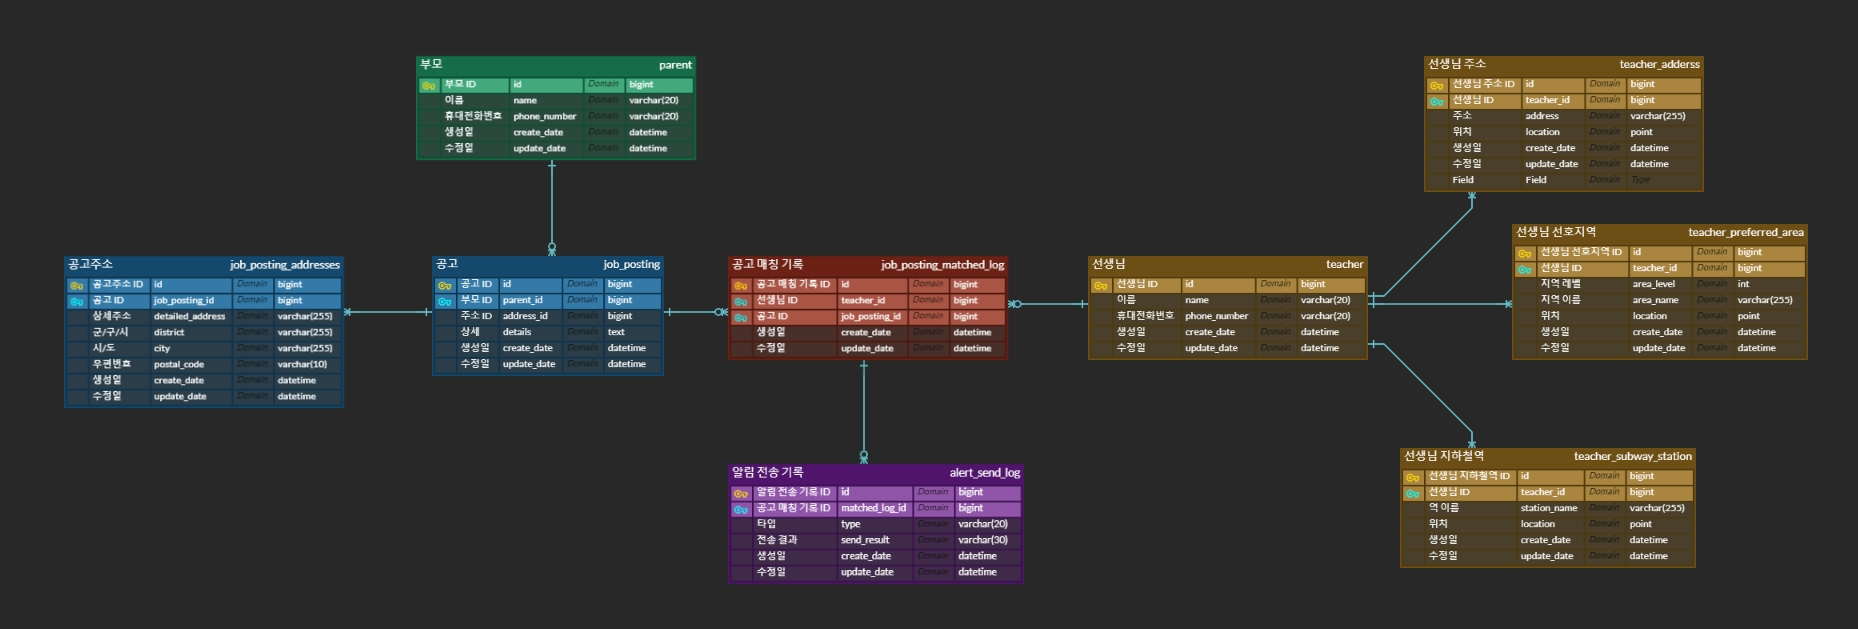
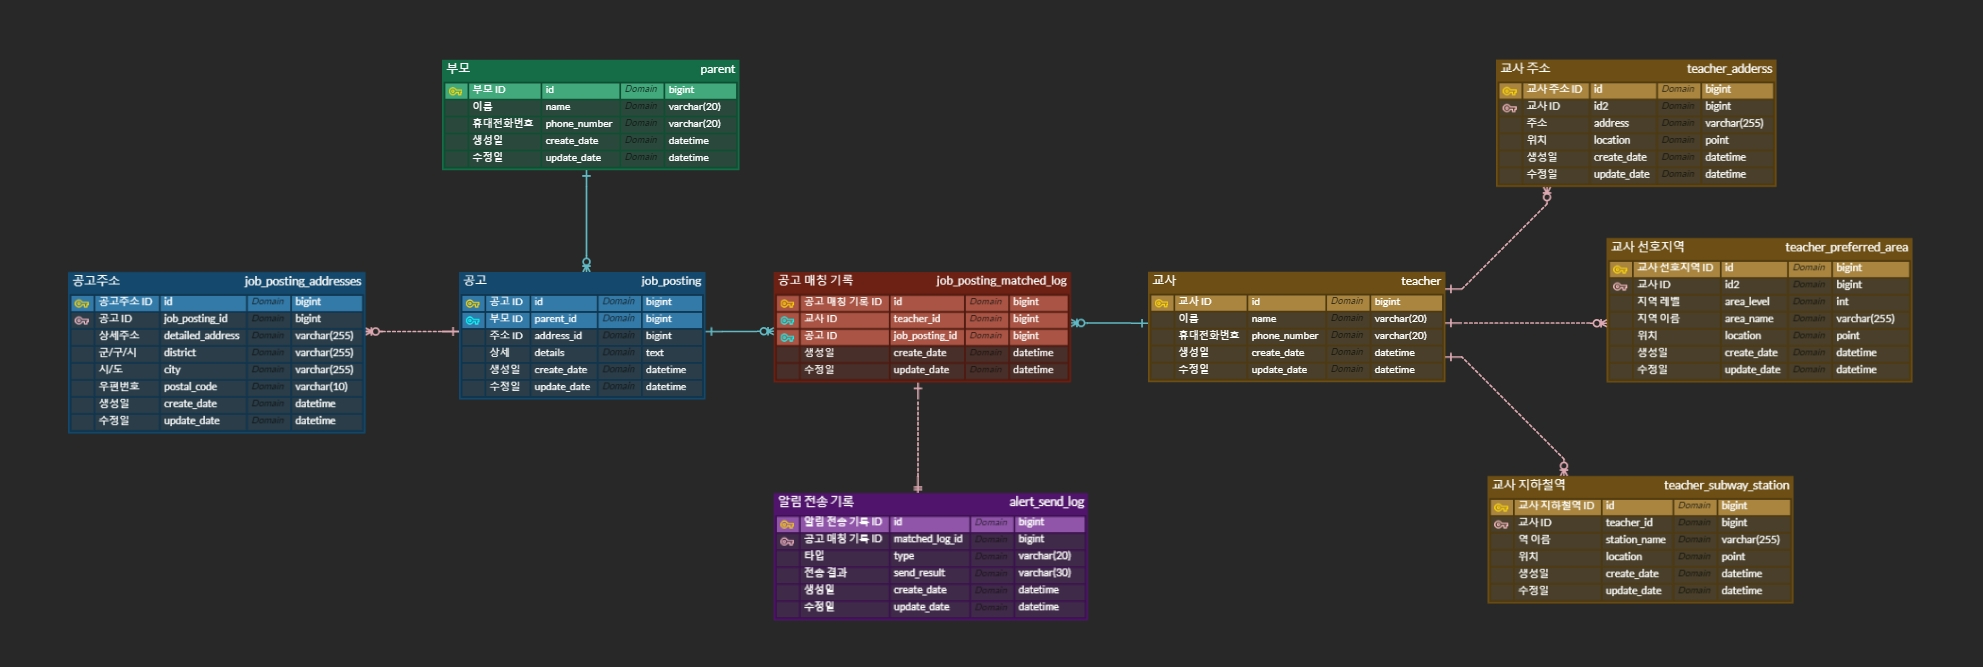
docs: ERD 수정(연간관계)

diff --git a/README.md b/README.md
@@ -139,11 +139,11 @@
 - 교사 선호지역
     + 교사 선호지역과 교사는 다대일(N:1) 단방향 관계다.
 - 공고 매칭 기록
-    + 공고 매칭 기록과 공고는 다대일(N:1) 단방향 관계다.
-    + 공고 매칭 기록과 교사는 다대일(N:1) 단방향 관계다.
-    + 공고 매칭 기록과 알림 전송 기록은 일대일(N:1) 단방향 관계다.
+    + 공고 매칭 기록과 공고는 다대일(N:1) 양방향 관계다.
+    + 공고 매칭 기록과 교사는 다대일(N:1) 양방향 관계다.
+    + 공고 매칭 기록과 알림 전송 기록은 일대일(1:1) 단방향 관계다.
 - 알림 전송 기록
-    + 알림 전송 기록과 공고 매칭 기록은 일대일(N:1) 단방향 관계다.
+    + 알림 전송 기록과 공고 매칭 기록은 일대일(1:1) 단방향 관계다.
 
 ***
 
